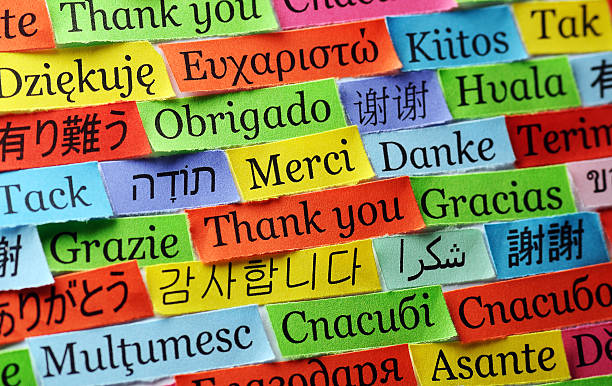
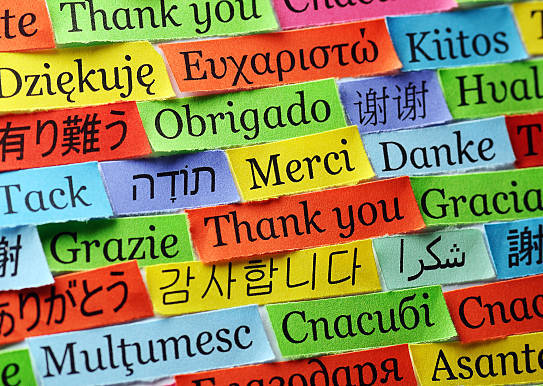
Portfolio grid fixed

diff --git a/_includes/css/main.css b/_includes/css/main.css
@@ -590,8 +590,6 @@ footer .footer-below {
     -webkit-transform: translateZ(0);
 }
 
-
-
 /*
 Custonm code:
 
@@ -614,7 +612,7 @@ Custonm code:
     display: flex;
     justify-content: center;
     align-items: center;
-    transition: opacity 1.5s ease-in, background 1.5s ease-in;
+    transition: opacity 1s ease-in, background 1s ease-in;
 }
 
 #portfolio .portfolio-item .portfolio-link .caption-content {
@@ -643,6 +641,26 @@ Custonm code:
 #portfolio .portfolio-item .portfolio-link .caption:not(:hover) {
     transition: none; /* Removes delay on hover-out */
     opacity: 0;
+}
+
+#portfolio .portfolio-item {
+    width: 100%; /* Ensures responsiveness */
+    max-width: 350px; /* Set max-width for consistency */
+    height: 250px; /* Forces equal height */
+    overflow: hidden; /* Prevents overflow */
+    display: flex;
+    align-items: center;
+    justify-content: center;
+    background: #121826; /* Optional background color */
+}
+
+/* Ensure images fit within the container */
+#portfolio .portfolio-item img {
+    width: 100%; /* Make the image take full width */
+    height: 100%; /* Force the height */
+    object-fit: cover; /* Ensure the image fills the area */
+    object-position: center; /* Centers the image */
+    display: block;
 }
 
 #contact {
